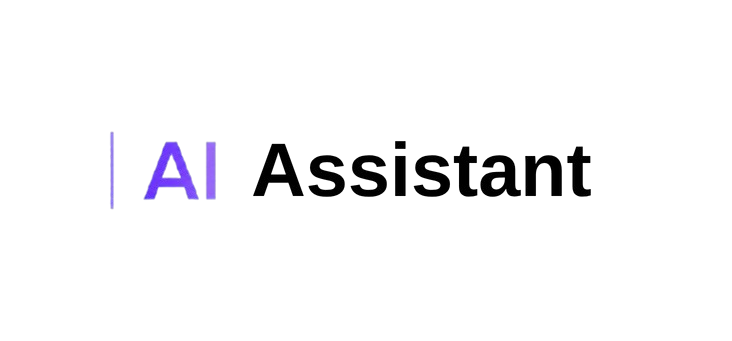
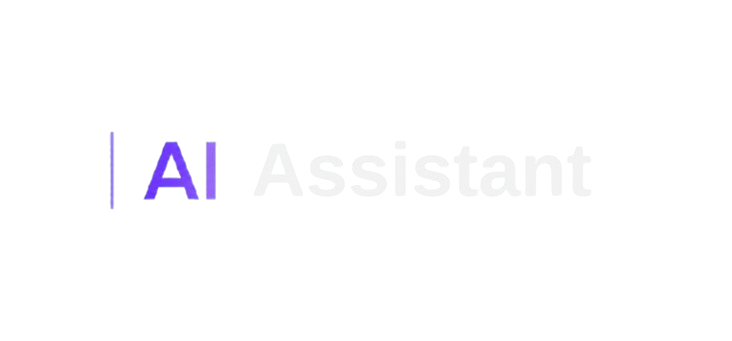
feat(ui): complete AI card header and send button

Changed region(s): [[0.3306, 0.4106, 0.8115, 0.5865]]

diff --git a/ui/ai_input.py b/ui/ai_input.py
@@ -8,10 +8,6 @@ from PIL import Image, ImageTk
 
 
 
-from ui.buttons import create_send_button
-
-
-
 def create_ai_input(parent):
     card = tk.Frame(
         parent,
@@ -40,7 +36,7 @@ def create_ai_input(parent):
 
     assistant_image = Image.open("assets/ai_card/titles/assistant_title.png")
 
-    new_width = 120
+    new_width = 125
     ratio = new_width / assistant_image.width
     new_height = int(assistant_image.height * ratio)
 
@@ -65,7 +61,7 @@ def create_ai_input(parent):
 
     pro_image = Image.open("assets/ai_card/badges/pro_badge.png")
 
-    new_width = 60
+    new_width = 64
     ratio = new_width / pro_image.width
     new_height = int(pro_image.height * ratio)
 
@@ -88,12 +84,12 @@ def create_ai_input(parent):
 
     pro_label.pack(
         side="right",
-        padx=(0 , 20)
+        padx=(0 , 10)
     )
 
     gpt_image = Image.open("assets/ai_card/badges/gpt4.png")
 
-    new_width = 85
+    new_width = 90
     ratio = new_width / gpt_image.width
     new_height = int(gpt_image.height * ratio)
 
@@ -116,7 +112,7 @@ def create_ai_input(parent):
 
     gpt_label.pack(
         side="right",
-        padx=(0, 0.1)
+        padx=(0, 3)
     )
 
     # ==========================
@@ -150,14 +146,37 @@ def create_ai_input(parent):
         pady=(0, 10)
     )
 
+    send_image = Image.open(
+        "assets/ai_card/buttons/send_button.png"
+    )
 
-    send_button = create_send_button(
-        bottom_frame)
+    new_width = 68
+
+    ratio = new_width / send_image.width
+    new_height = int(send_image.height * ratio)
+
+    send_image = send_image.resize(
+        (new_width, new_height),
+        Image.Resampling.LANCZOS
+    )
+
+    send_photo = ImageTk.PhotoImage(send_image)
+
+    card.send_photo = send_photo
+
+    send_button = tk.Label(
+        bottom_frame,
+        image=send_photo,
+        bg=AI_CARD_BG,
+        bd=0,
+        highlightthickness=0,
+        cursor="hand2"
+    )
 
     send_button.pack(
         side="right",
-        ipadx=2,
-        ipady=1
+        padx=(0, 14),
+        pady=(0, 2)
     )
 
 
